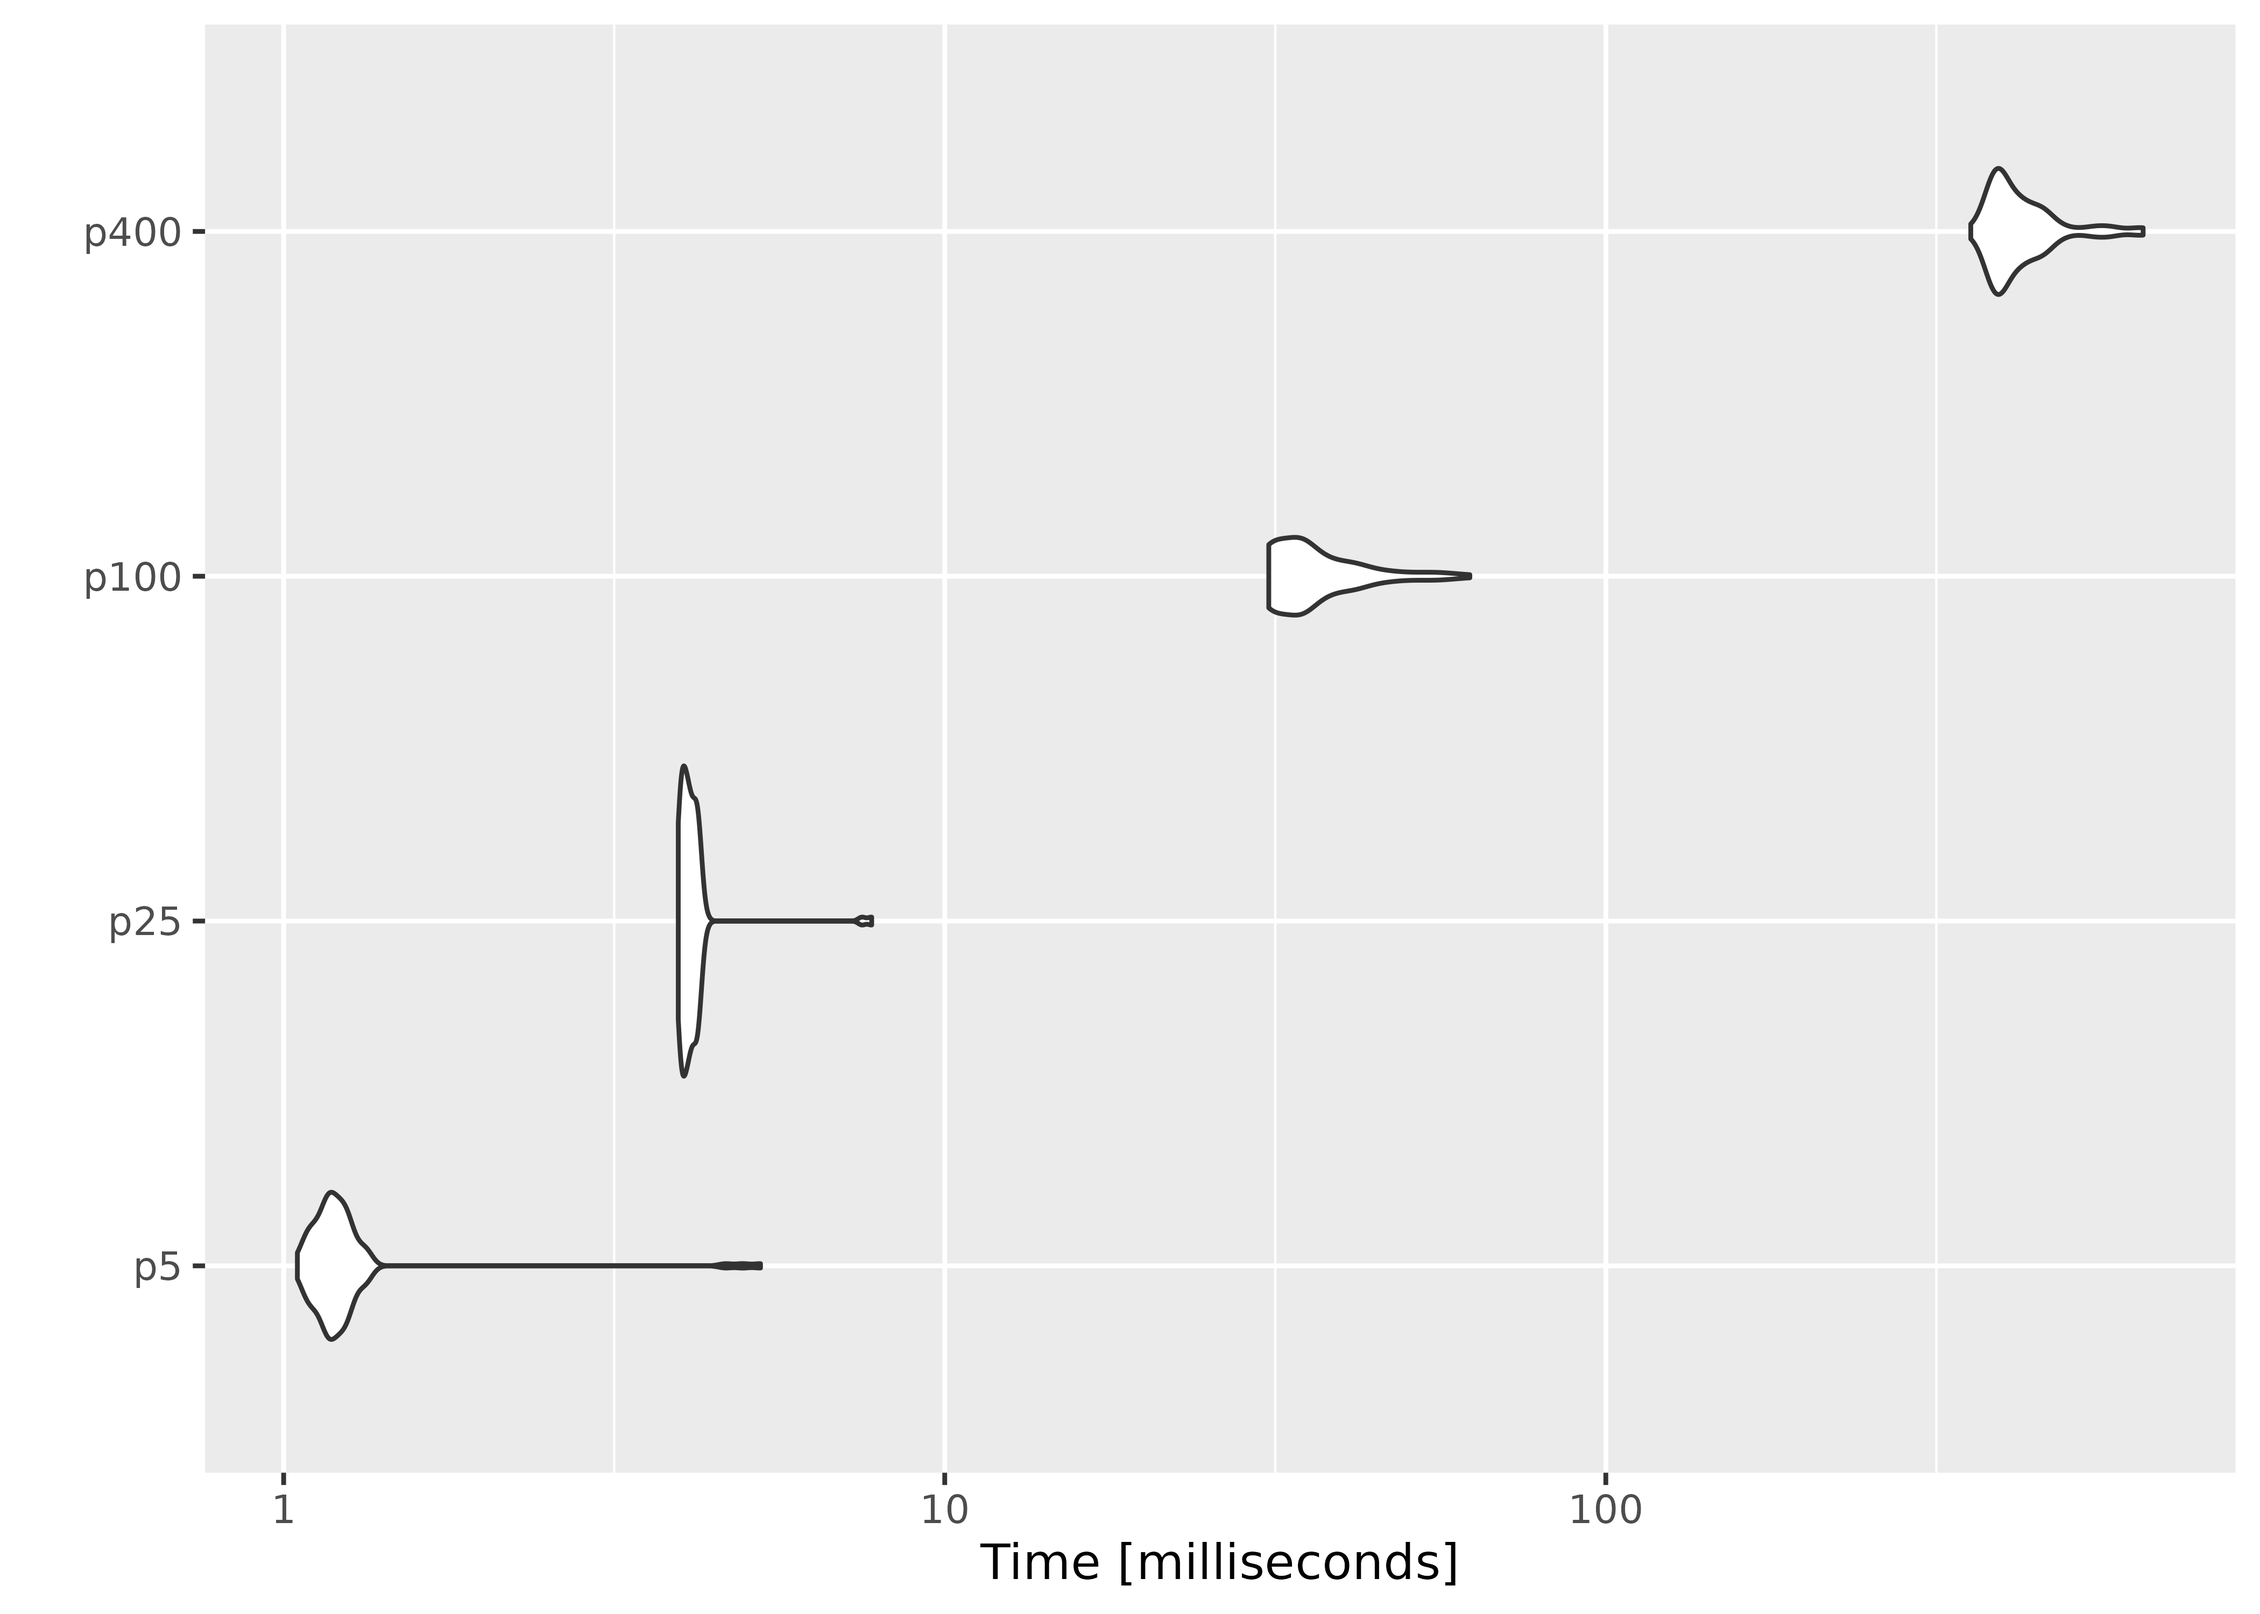
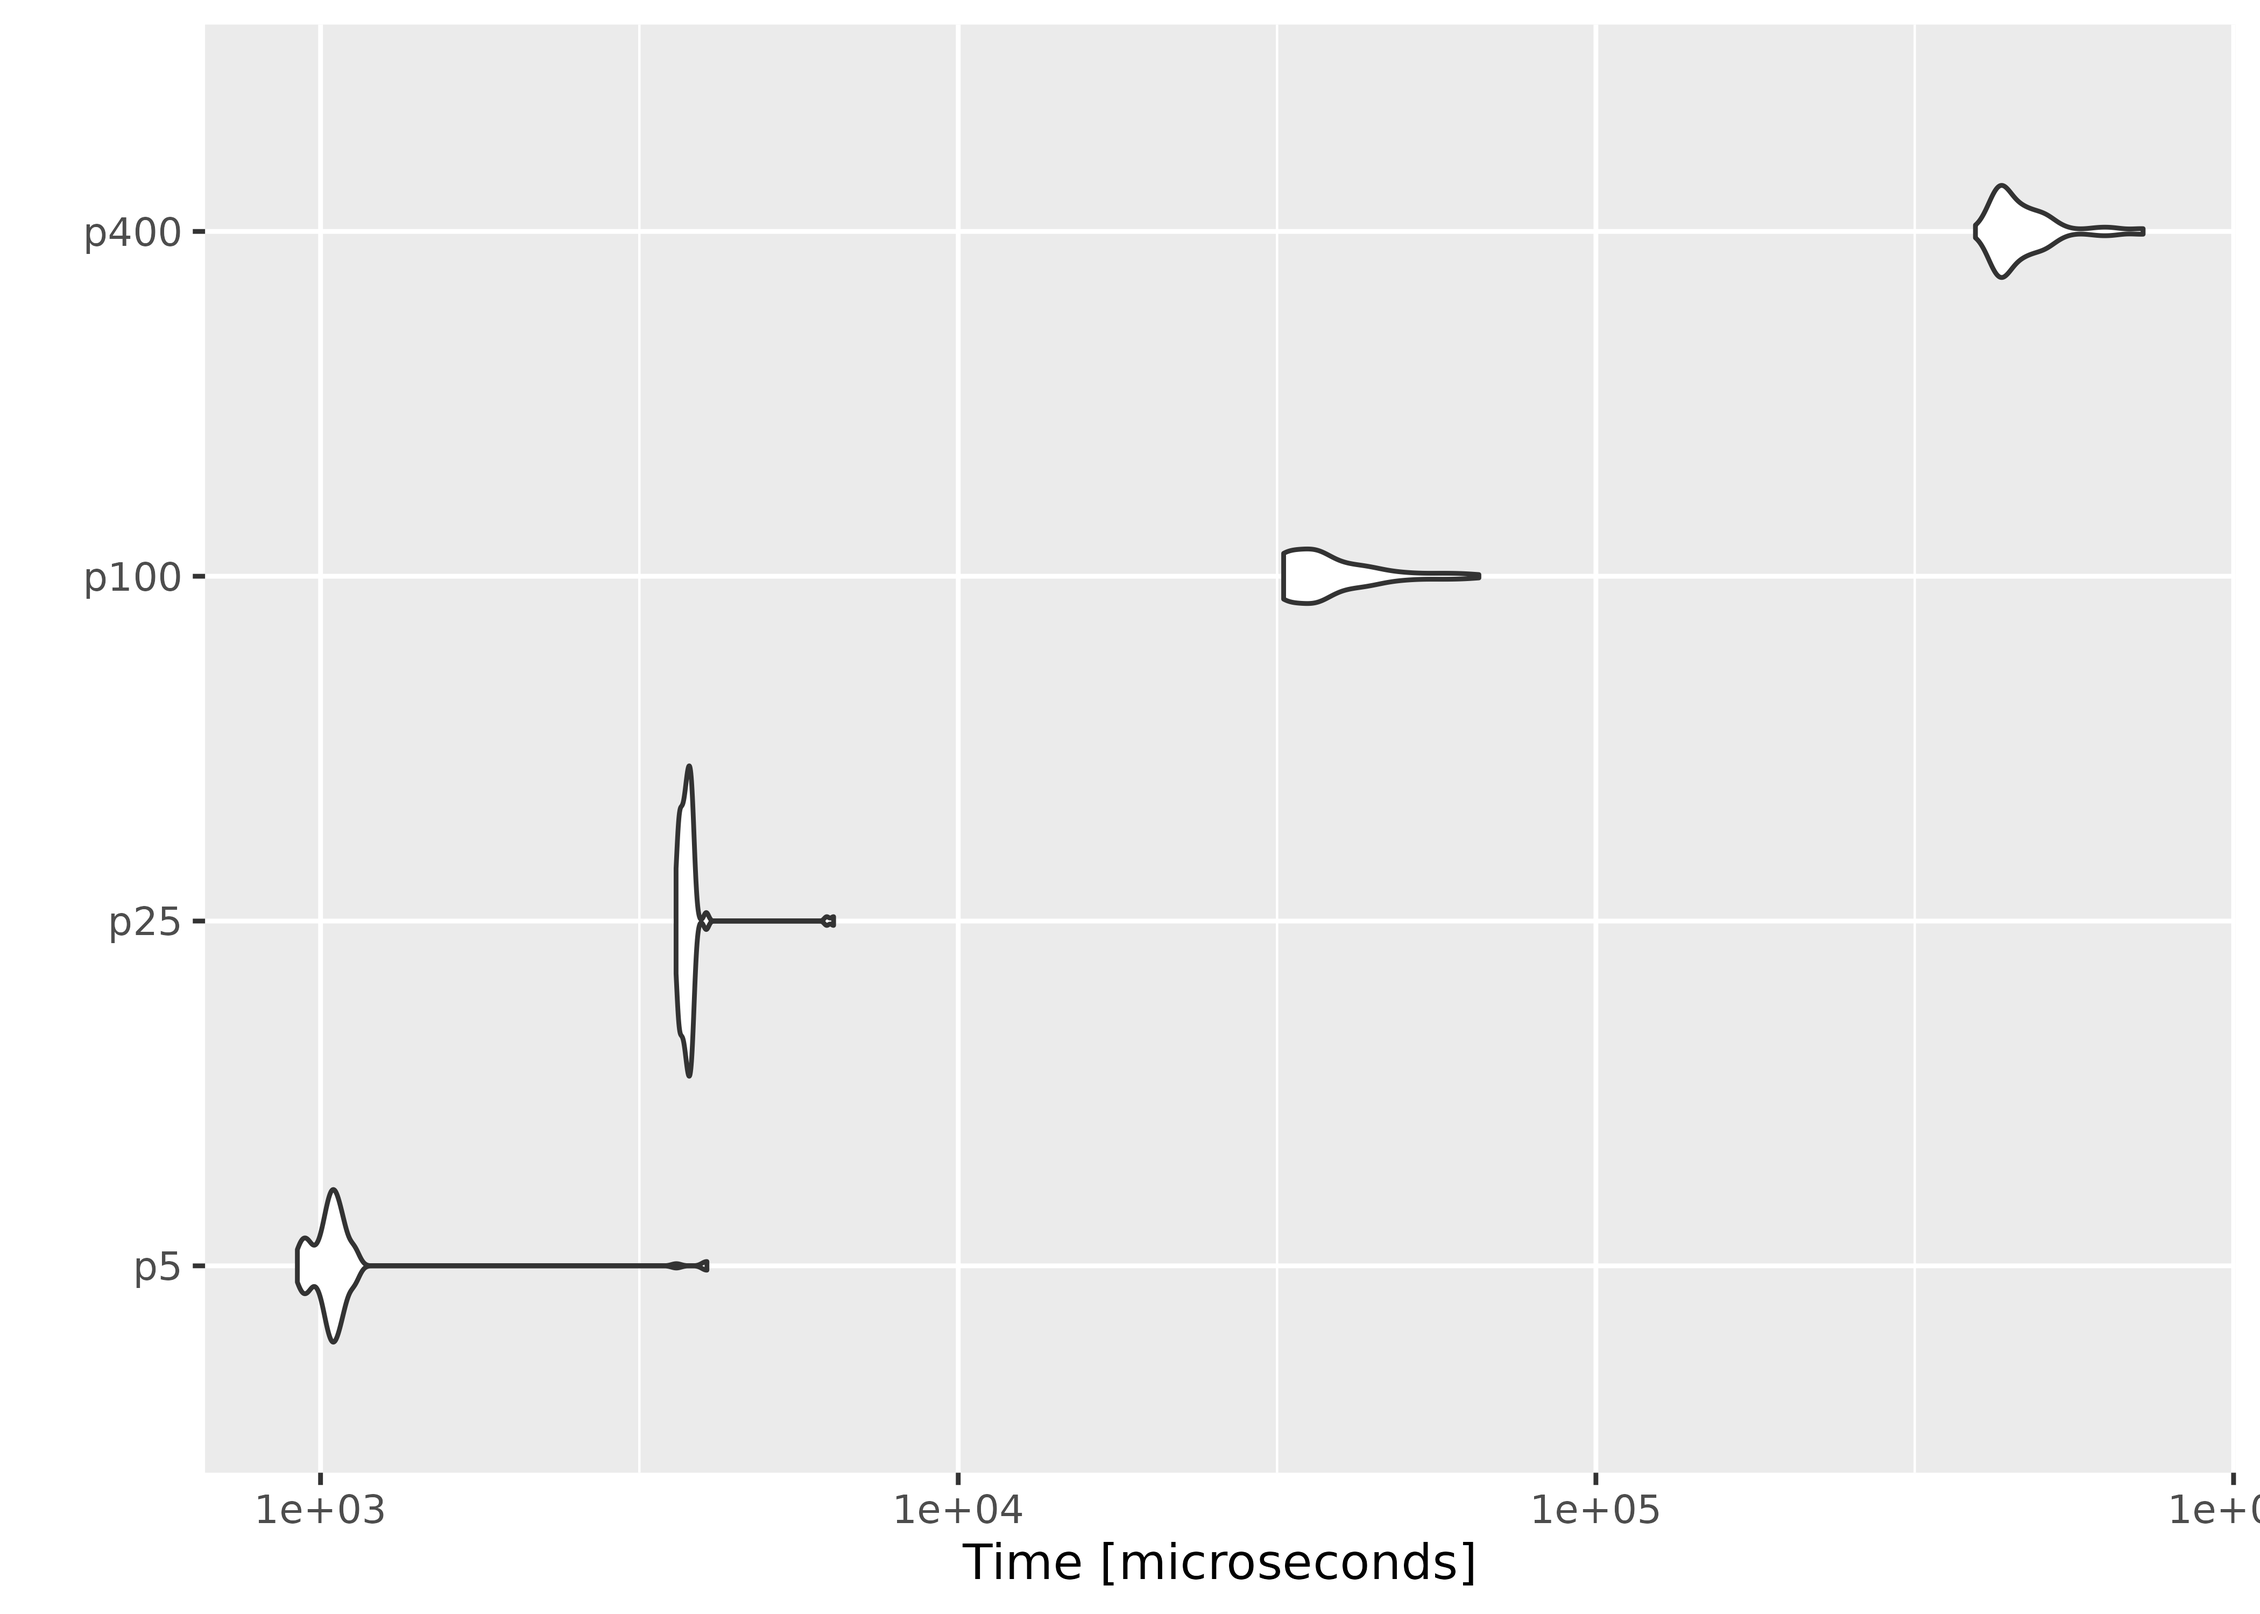
Deploying to gh-pages from @ ropensci/melt@4a16d26442910b140a116f89e19fda39f92b124e 🚀

diff --git a/articles/performance.html b/articles/performance.html
@@ -137,11 +137,11 @@ parameters increases with the number of observations fixed.</p>
 <div class="sourceCode" id="cb3"><pre class="downlit sourceCode r">
 <code class="sourceCode R"><span><span class="va">result</span></span>
 <span><span class="co">#&gt; Unit: microseconds</span></span>
-<span><span class="co">#&gt;  expr      min       lq       mean    median        uq      max neval</span></span>
-<span><span class="co">#&gt;  n1e2    642.4    681.0    722.116    706.00    771.65    844.7   100</span></span>
-<span><span class="co">#&gt;  n1e3   1765.8   1993.8   2210.547   2082.95   2267.40   6536.7   100</span></span>
-<span><span class="co">#&gt;  n1e4  15842.8  17786.1  20710.383  21204.25  22601.25  27438.1   100</span></span>
-<span><span class="co">#&gt;  n1e5 295370.3 356379.2 420605.409 407933.35 482286.50 565379.5   100</span></span>
+<span><span class="co">#&gt;  expr      min        lq       mean    median        uq      max neval</span></span>
+<span><span class="co">#&gt;  n1e2    557.4    611.55    655.466    666.80    693.80    757.8   100</span></span>
+<span><span class="co">#&gt;  n1e3   1562.9   1762.60   1977.207   1874.75   2063.35   5574.3   100</span></span>
+<span><span class="co">#&gt;  n1e4  14473.3  16582.05  19473.349  19747.05  21542.60  25169.7   100</span></span>
+<span><span class="co">#&gt;  n1e5 277437.1 334287.60 396614.680 382690.65 462852.55 520863.0   100</span></span>
 <span><span class="fu"><a href="https://ggplot2.tidyverse.org/reference/autoplot.html" class="external-link">autoplot</a></span><span class="op">(</span><span class="va">result</span><span class="op">)</span></span></code></pre></div>
 <p><img src="performance_files/figure-html/unnamed-chunk-3-1.png" width="100%" style="display: block; margin: auto;"></p>
 </div>
@@ -172,12 +172,12 @@ likelihood at zero vectors of different sizes.</p>
 <span><span class="op">)</span></span></code></pre></div>
 <div class="sourceCode" id="cb5"><pre class="downlit sourceCode r">
 <code class="sourceCode R"><span><span class="va">result2</span></span>
-<span><span class="co">#&gt; Unit: milliseconds</span></span>
+<span><span class="co">#&gt; Unit: microseconds</span></span>
 <span><span class="co">#&gt;  expr      min        lq       mean    median        uq      max neval</span></span>
-<span><span class="co">#&gt;    p5   1.0489   1.14205   1.302124   1.18530   1.24795   5.2643   100</span></span>
-<span><span class="co">#&gt;   p25   3.9529   4.00870   4.173971   4.10140   4.20690   7.7538   100</span></span>
-<span><span class="co">#&gt;  p100  30.9149  31.51335  36.851082  34.62705  38.31220  62.2746   100</span></span>
-<span><span class="co">#&gt;  p400 356.4909 389.72505 429.169192 397.05270 453.61310 649.8152   100</span></span>
+<span><span class="co">#&gt;    p5    919.7   1009.65   1120.502   1042.55   1077.40   4035.8   100</span></span>
+<span><span class="co">#&gt;   p25   3610.2   3690.35   3800.379   3755.50   3811.45   6376.8   100</span></span>
+<span><span class="co">#&gt;  p100  32382.0  32696.30  38840.912  36404.45  40515.20  65545.3   100</span></span>
+<span><span class="co">#&gt;  p400 393731.3 429838.65 474240.244 433367.90 502838.30 721400.0   100</span></span>
 <span><span class="fu"><a href="https://ggplot2.tidyverse.org/reference/autoplot.html" class="external-link">autoplot</a></span><span class="op">(</span><span class="va">result2</span><span class="op">)</span></span></code></pre></div>
 <p><img src="performance_files/figure-html/unnamed-chunk-5-1.png" width="100%" style="display: block; margin: auto;">
 On average, evaluating empirical likelihood with a 100000×10 or 1000×400
